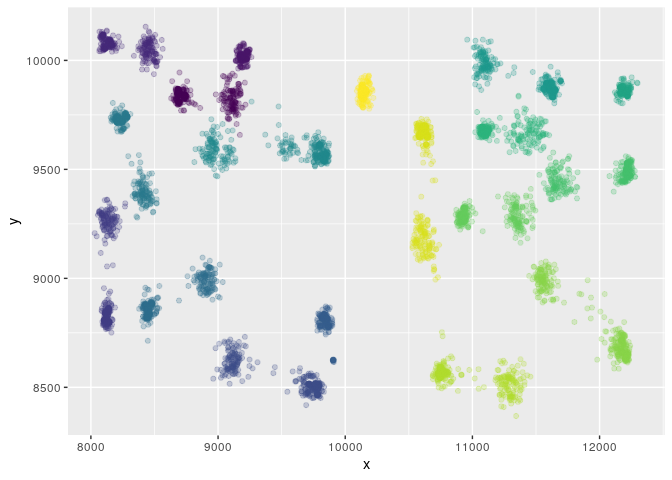
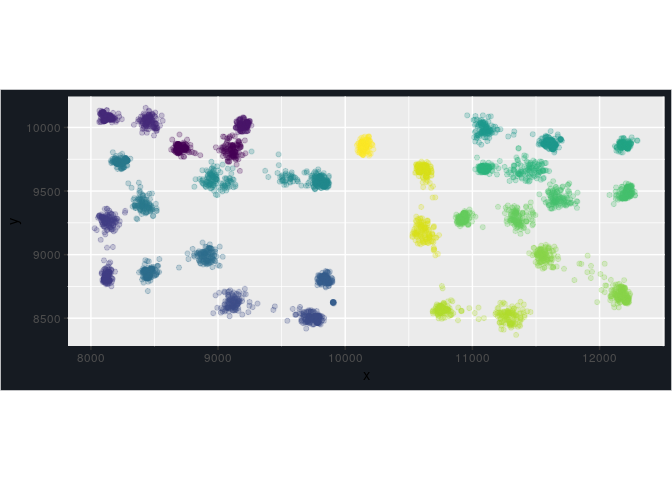
update readme plot

diff --git a/readme.md b/readme.md
@@ -14,16 +14,11 @@ intial_plot = strokes %>%
                        y = y,
                        color = hole)) +
   geom_point(alpha = 0.25) +
-  theme(legend.position = "none")
+  coord_equal() +
+  theme(legend.position = "none",
+        plot.background = element_rect(fill = "#161b22"))
 
 intial_plot
 ```
 
 ![](readme_files/figure-gfm/initial_plot-1.png)<!-- -->
-
-``` r
-intial_plot +
-  coord_equal()
-```
-
-![](readme_files/figure-gfm/coord_equal_plot-1.png)<!-- -->
